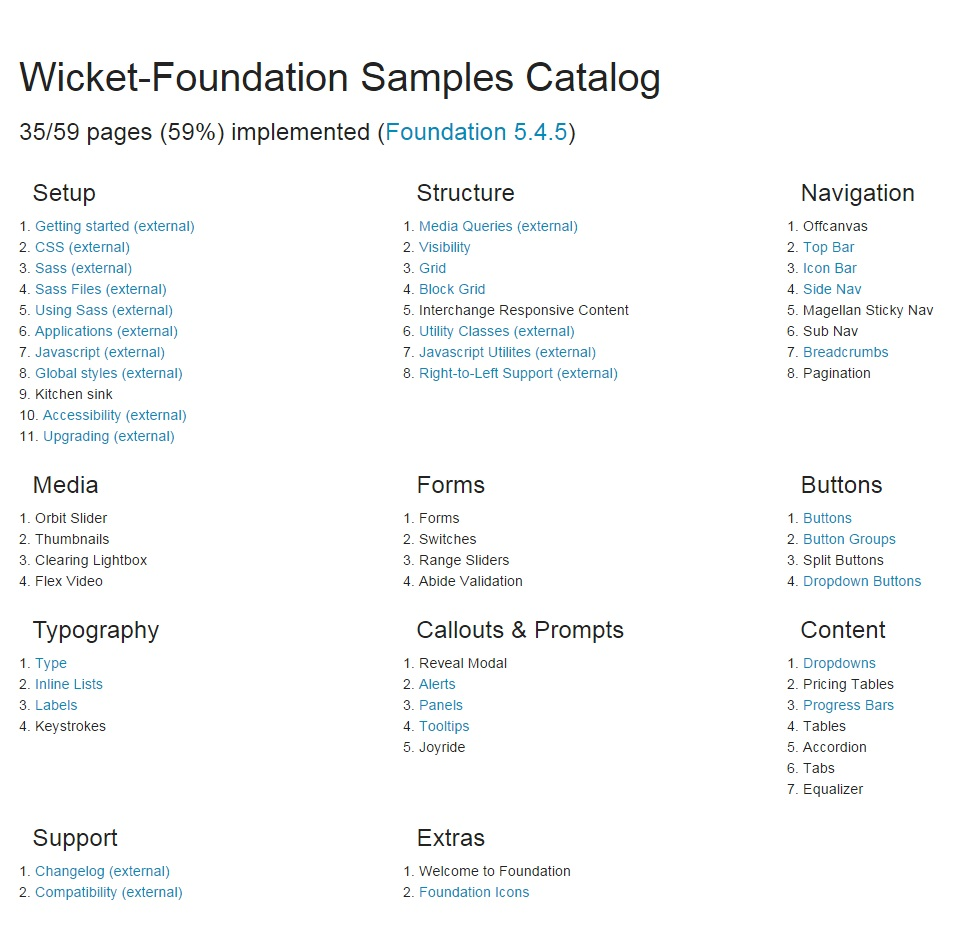
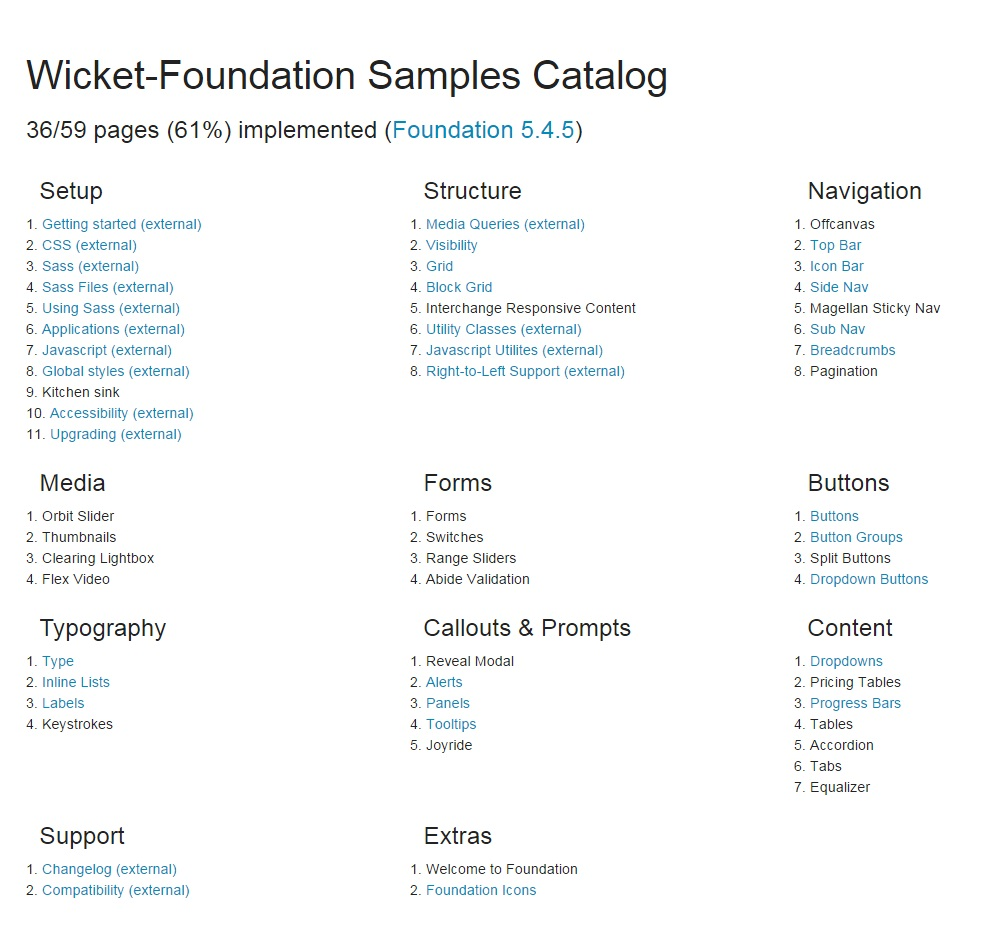
Finished sub nav component and sample page. Updated catalog status and screenshot.

diff --git a/wicket-foundation-samples/src/main/java/com/iluwatar/SubNavPage.html b/wicket-foundation-samples/src/main/java/com/iluwatar/SubNavPage.html
@@ -45,28 +45,29 @@
                 <div>
                     <h4>Java</h4>
                     
-<pre><code class="language-html"><div class="code-container">
+<pre><code class="language-html"><div class="code-container">List&lt;SubNavItem&gt; items = new ArrayList&lt;&gt;();
+items.add(new SubNavItem(&quot;All&quot;, true));
+items.add(new SubNavItem(&quot;Active&quot;));
+items.add(new SubNavItem(&quot;Pending&quot;));
+items.add(new SubNavItem(&quot;Suspended&quot;));
+add(new FoundationSubNav(&quot;basic&quot;, &quot;FILTER&quot;, items) {
+	@Override
+	public AbstractLink createLink(String id, final int idx) {
+		return new AjaxLink&lt;Void&gt;(id) {
+			@Override
+			public void onClick(AjaxRequestTarget target) {
+				target.appendJavaScript(String.format(&quot;alert('%d');&quot;, idx));
+			}
+		};
+	}
+});
 </div></code>
 </pre>
 
                 </div>
 				<div>
 					<h4>Rendered HTML</h4>
-					<dl class="sub-nav">
-						<dt>Filter:</dt>
-						<dd class="active">
-							<a href="#">All</a>
-						</dd>
-						<dd>
-							<a href="#">Active</a>
-						</dd>
-						<dd>
-							<a href="#">Pending</a>
-						</dd>
-						<dd>
-							<a href="#">Suspended</a>
-						</dd>
-					</dl>
+					<div wicket:id="basic"></div>
 				</div>
 			</div>
 		</div>

diff --git a/wicket-foundation-core/src/main/java/com/iluwatar/foundation/subnav/FoundationSubNav.html b/wicket-foundation-core/src/main/java/com/iluwatar/foundation/subnav/FoundationSubNav.html
@@ -1,0 +1,19 @@
+<!DOCTYPE html>
+<html xmlns:wicket="http://wicket.apache.org">
+<head>
+<meta charset="utf-8" />
+<title>wicket-foundation</title>
+</head>
+<body>
+	<wicket:panel>
+	
+		<dl wicket:id="subNavContainer">
+			<dt wicket:id="subNavTitle"></dt>
+			<dd wicket:id="subNavItem">
+				<a wicket:id="subNavItemLink"><wicket:container wicket:id="subNavItemText"></wicket:container></a>
+			</dd>
+		</dl>
+	
+	</wicket:panel>
+</body>
+</html>

diff --git a/wicket-foundation-samples/src/main/java/com/iluwatar/CatalogPage.html b/wicket-foundation-samples/src/main/java/com/iluwatar/CatalogPage.html
@@ -11,7 +11,7 @@
 		<h1>Wicket-Foundation Samples Catalog</h1>
 	</div>
     <div class="row">
-      <h3>35/59 pages (59%) implemented (<a href="http://foundation.zurb.com/" target="blank">Foundation 5.4.5</a>)</h3>
+      <h3>36/59 pages (61%) implemented (<a href="http://foundation.zurb.com/" target="blank">Foundation 5.4.5</a>)</h3>
     </div>
 
     <p>

diff --git a/wicket-foundation-core/src/main/java/com/iluwatar/foundation/subnav/FoundationSubNav.java b/wicket-foundation-core/src/main/java/com/iluwatar/foundation/subnav/FoundationSubNav.java
@@ -1,0 +1,72 @@
+package com.iluwatar.foundation.subnav;
+
+import java.util.List;
+
+import org.apache.wicket.AttributeModifier;
+import org.apache.wicket.markup.ComponentTag;
+import org.apache.wicket.markup.html.WebMarkupContainer;
+import org.apache.wicket.markup.html.basic.Label;
+import org.apache.wicket.markup.html.link.AbstractLink;
+import org.apache.wicket.markup.html.list.ListItem;
+import org.apache.wicket.markup.html.list.ListView;
+import org.apache.wicket.model.IModel;
+import org.apache.wicket.model.Model;
+import org.apache.wicket.model.util.ListModel;
+
+import com.iluwatar.foundation.component.FoundationBasePanel;
+import com.iluwatar.foundation.util.Attribute;
+
+/**
+ * This simple sub nav is great for moving between different states of a page. We use these 
+ * frequently to show iterations of something, typically by date, but they're also handy for filters like these.
+ * http://foundation.zurb.com/docs/components/subnav.html
+ * @author ilkka
+ *
+ */
+public abstract class FoundationSubNav extends FoundationBasePanel {
+
+	private static final long serialVersionUID = 1L;
+
+	public FoundationSubNav(String id, String title, List<SubNavItem> items) {
+		this(id, Model.of(title), new ListModel<>(items));
+	}
+	
+	public FoundationSubNav(String id, IModel<String> titleModel, IModel<List<SubNavItem>> itemsModel) {
+		super(id);
+		SubNavContainer subNavContainer = new SubNavContainer("subNavContainer");
+		add(subNavContainer);
+		subNavContainer.add(new Label("subNavTitle", titleModel));
+		subNavContainer.add(new ListView<SubNavItem>("subNavItem", itemsModel) {
+
+			private static final long serialVersionUID = 1L;
+
+			@Override
+			protected void populateItem(ListItem<SubNavItem> item) {
+				SubNavItem subNavItem = item.getModelObject();
+				if (subNavItem.isActive()) {
+					item.add(new AttributeModifier("class", "active"));
+				}
+				AbstractLink subNavItemLink = createLink("subNavItemLink", item.getIndex());
+				item.add(subNavItemLink);
+				subNavItemLink.add(new Label("subNavItemText", subNavItem.getTitle()));
+			}
+		});
+	}
+	
+	public abstract AbstractLink createLink(String id, int idx);
+	
+	private static class SubNavContainer extends WebMarkupContainer {
+
+		private static final long serialVersionUID = 1L;
+
+		public SubNavContainer(String id) {
+			super(id);
+		}
+		
+		@Override
+		protected void onComponentTag(ComponentTag tag) {
+			Attribute.setClass(tag, "sub-nav");
+			super.onComponentTag(tag);
+		}
+	}
+}

diff --git a/wicket-foundation-samples/src/main/java/com/iluwatar/SubNavPage.java b/wicket-foundation-samples/src/main/java/com/iluwatar/SubNavPage.java
@@ -1,6 +1,16 @@
 package com.iluwatar;
 
+import java.util.ArrayList;
+import java.util.List;
+
+import org.apache.wicket.ajax.AjaxRequestTarget;
+import org.apache.wicket.ajax.markup.html.AjaxLink;
+import org.apache.wicket.markup.html.link.AbstractLink;
+import org.apache.wicket.markup.html.link.Link;
 import org.apache.wicket.request.mapper.parameter.PageParameters;
+
+import com.iluwatar.foundation.subnav.FoundationSubNav;
+import com.iluwatar.foundation.subnav.SubNavItem;
 
 public class SubNavPage extends BasePage {
 
@@ -8,5 +18,21 @@ public class SubNavPage extends BasePage {
 
 	public SubNavPage(PageParameters params) {
 		super(params);
+		List<SubNavItem> items = new ArrayList<>();
+		items.add(new SubNavItem("All", true));
+		items.add(new SubNavItem("Active"));
+		items.add(new SubNavItem("Pending"));
+		items.add(new SubNavItem("Suspended"));
+		add(new FoundationSubNav("basic", "FILTER", items) {
+			@Override
+			public AbstractLink createLink(String id, final int idx) {
+				return new AjaxLink<Void>(id) {
+					@Override
+					public void onClick(AjaxRequestTarget target) {
+						target.appendJavaScript(String.format("alert('%d');", idx));
+					}
+				};
+			}
+		});
 	}
 }

diff --git a/wicket-foundation-core/src/test/java/com/iluwatar/foundation/subnav/FoundationSubNavTest.java b/wicket-foundation-core/src/test/java/com/iluwatar/foundation/subnav/FoundationSubNavTest.java
@@ -1,0 +1,40 @@
+package com.iluwatar.foundation.subnav;
+
+import java.util.ArrayList;
+import java.util.List;
+
+import org.apache.wicket.markup.html.link.AbstractLink;
+import org.apache.wicket.markup.html.link.Link;
+import org.apache.wicket.util.tester.WicketTester;
+import org.junit.Test;
+
+public class FoundationSubNavTest {
+
+	@Test
+	public void test() {
+		WicketTester tester = new WicketTester();
+		List<SubNavItem> items = new ArrayList<>();
+		items.add(new SubNavItem("All", true));
+		items.add(new SubNavItem("Active"));
+		items.add(new SubNavItem("Pending"));
+		items.add(new SubNavItem("Suspended"));
+		FoundationSubNav subNav = new FoundationSubNav("id", "Nav title", items) {
+
+			private static final long serialVersionUID = 1L;
+
+			@Override
+			public AbstractLink createLink(String id, int idx) {
+				return new Link<Void>(id) {
+
+					private static final long serialVersionUID = 1L;
+
+					@Override
+					public void onClick() {
+					}
+				};
+			}
+		};
+		tester.startComponentInPage(subNav);
+		tester.dumpPage();
+	}
+}

diff --git a/wicket-foundation-core/src/main/java/com/iluwatar/foundation/subnav/SubNavItem.java b/wicket-foundation-core/src/main/java/com/iluwatar/foundation/subnav/SubNavItem.java
@@ -1,0 +1,38 @@
+package com.iluwatar.foundation.subnav;
+
+import java.io.Serializable;
+
+public class SubNavItem implements Serializable {
+
+	private static final long serialVersionUID = 1L;
+	
+	private String title;
+	private boolean active;
+
+	public SubNavItem(String title) {
+		this.title = title;
+	}	
+	
+	public SubNavItem(String title, boolean active) {
+		this.title = title;
+		this.active = active;
+	}
+
+	public String getTitle() {
+		return title;
+	}
+
+	public SubNavItem setTitle(String title) {
+		this.title = title;
+		return this;
+	}
+
+	public boolean isActive() {
+		return active;
+	}
+
+	public SubNavItem setActive(boolean active) {
+		this.active = active;
+		return this;
+	}
+}
